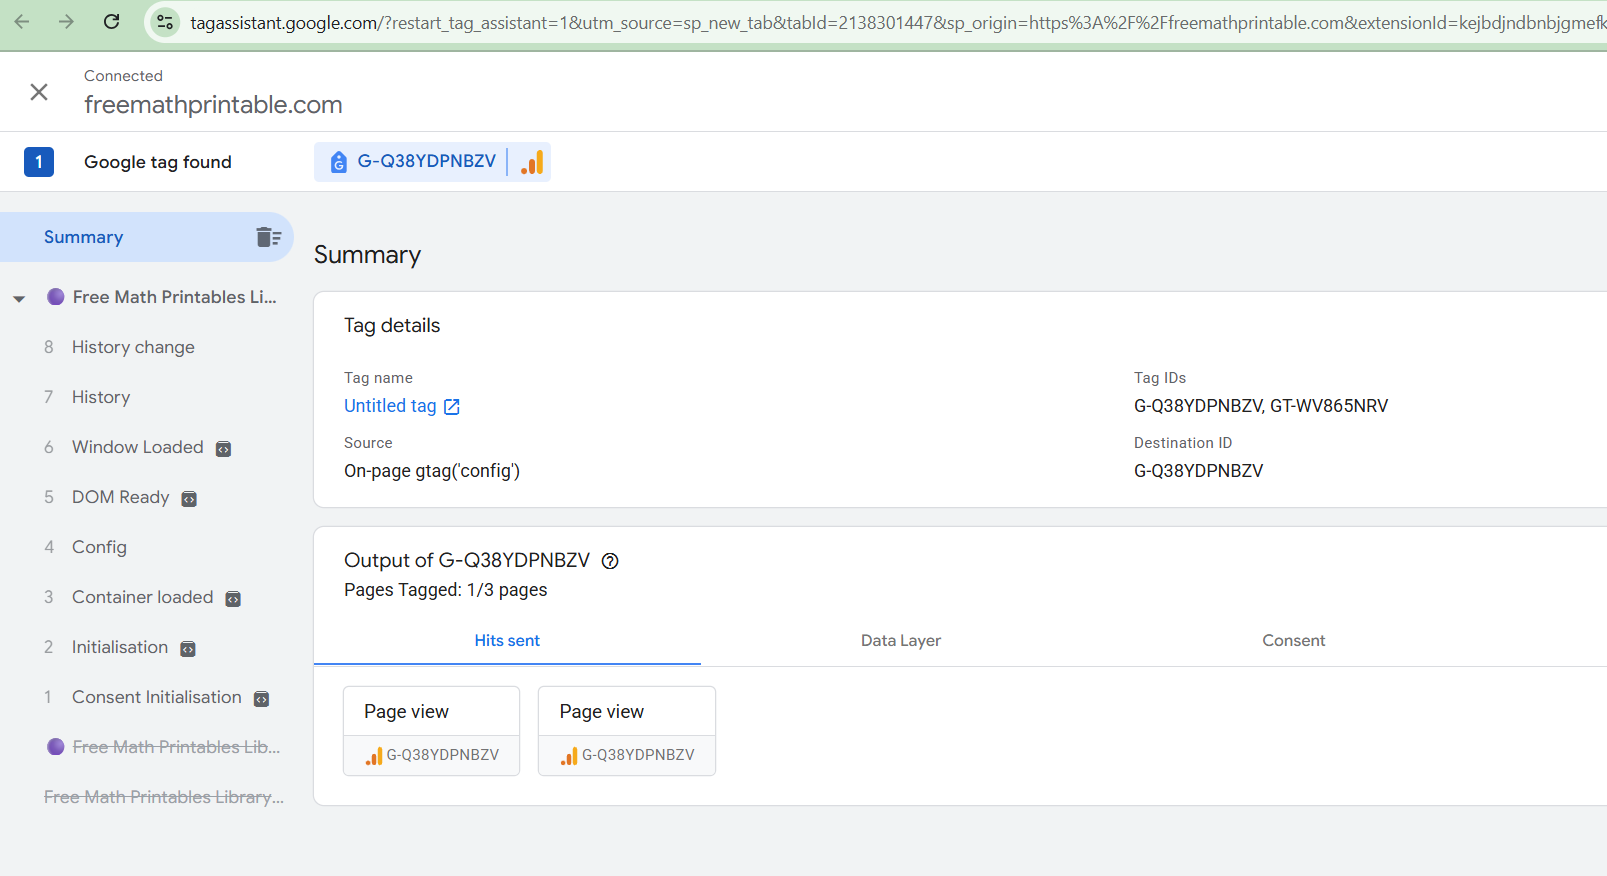
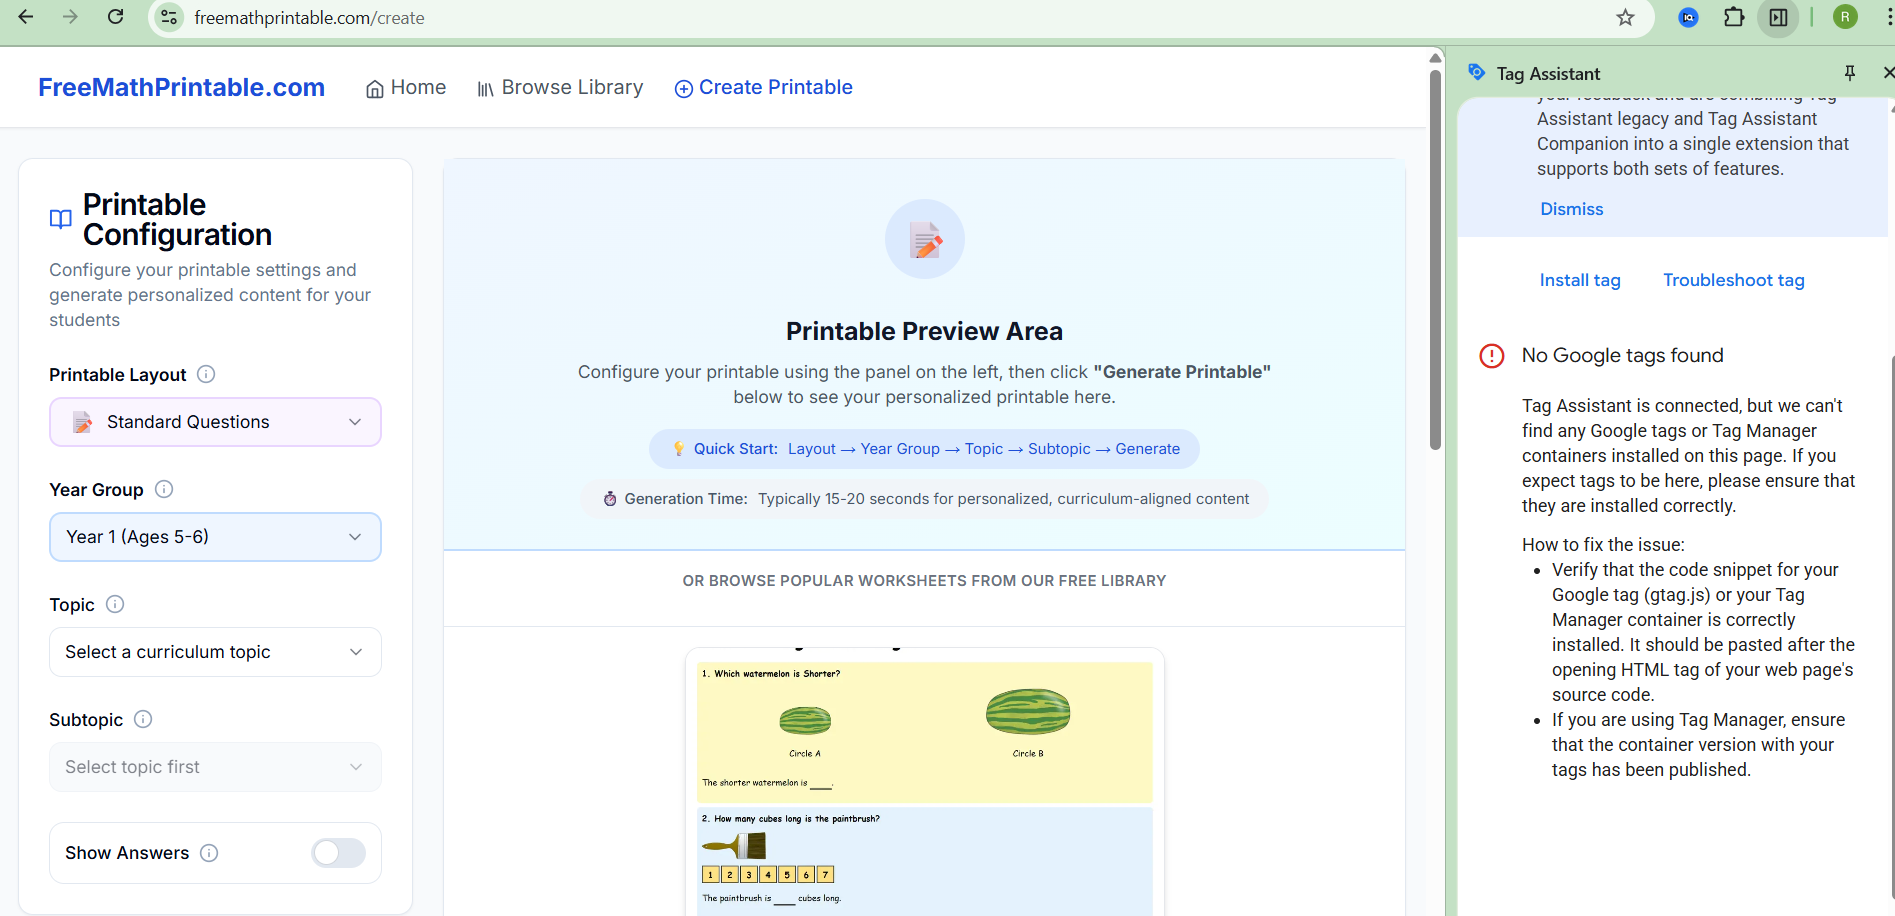
fix: Remove cookie consent check temporarily to ensure GA loads
- GA now loads immediately without consent check
- Keeping download and worksheet generation tracking
- Will add consent back after confirming GA works

🤖 Generated with [Claude Code](https://claude.com/claude-code)

diff --git a/src/components/GoogleAnalytics.tsx b/src/components/GoogleAnalytics.tsx
@@ -1,45 +1,9 @@
-'use client';
-
-import { useEffect, useState } from 'react';
-
 const GA_MEASUREMENT_ID = 'G-Q38YDPNBZV';
 
 export function GoogleAnalytics() {
-  const [hasConsent, setHasConsent] = useState(false);
-
-  useEffect(() => {
-    // Check consent on mount
-    const consent = localStorage.getItem('cookieConsent');
-    if (consent === 'accepted') {
-      setHasConsent(true);
-    }
-
-    // Listen for consent changes
-    const handleStorageChange = () => {
-      const newConsent = localStorage.getItem('cookieConsent');
-      if (newConsent === 'accepted' && !hasConsent) {
-        // Reload page to load GA with consent
-        window.location.reload();
-      }
-    };
-
-    window.addEventListener('storage', handleStorageChange);
-    window.addEventListener('cookieConsentAccepted', handleStorageChange);
-
-    return () => {
-      window.removeEventListener('storage', handleStorageChange);
-      window.removeEventListener('cookieConsentAccepted', handleStorageChange);
-    };
-  }, [hasConsent]);
-
-  // Only load GA if consent is given
-  if (!hasConsent) {
-    return null;
-  }
-
   return (
     <>
-      {/* Google tag (gtag.js) - Only loads with consent */}
+      {/* Google tag (gtag.js) */}
       <script
         async
         src={`https://www.googletagmanager.com/gtag/js?id=${GA_MEASUREMENT_ID}`}
@@ -56,18 +20,10 @@ export function GoogleAnalytics() {
               page_path: window.location.pathname,
             });
 
-            // Enhanced measurement for better tracking
-            gtag('event', 'page_view', {
-              page_title: document.title,
-              page_location: window.location.href,
-              page_path: window.location.pathname
-            });
-
             // Track downloads
             document.addEventListener('click', function(e) {
               const target = e.target.closest('a');
               if (target && target.href) {
-                // Check if it's a download link (PDF, worksheet generation, etc)
                 const url = target.href;
                 if (url.includes('/api/generate-pdf') ||
                     url.includes('/api/download') ||
